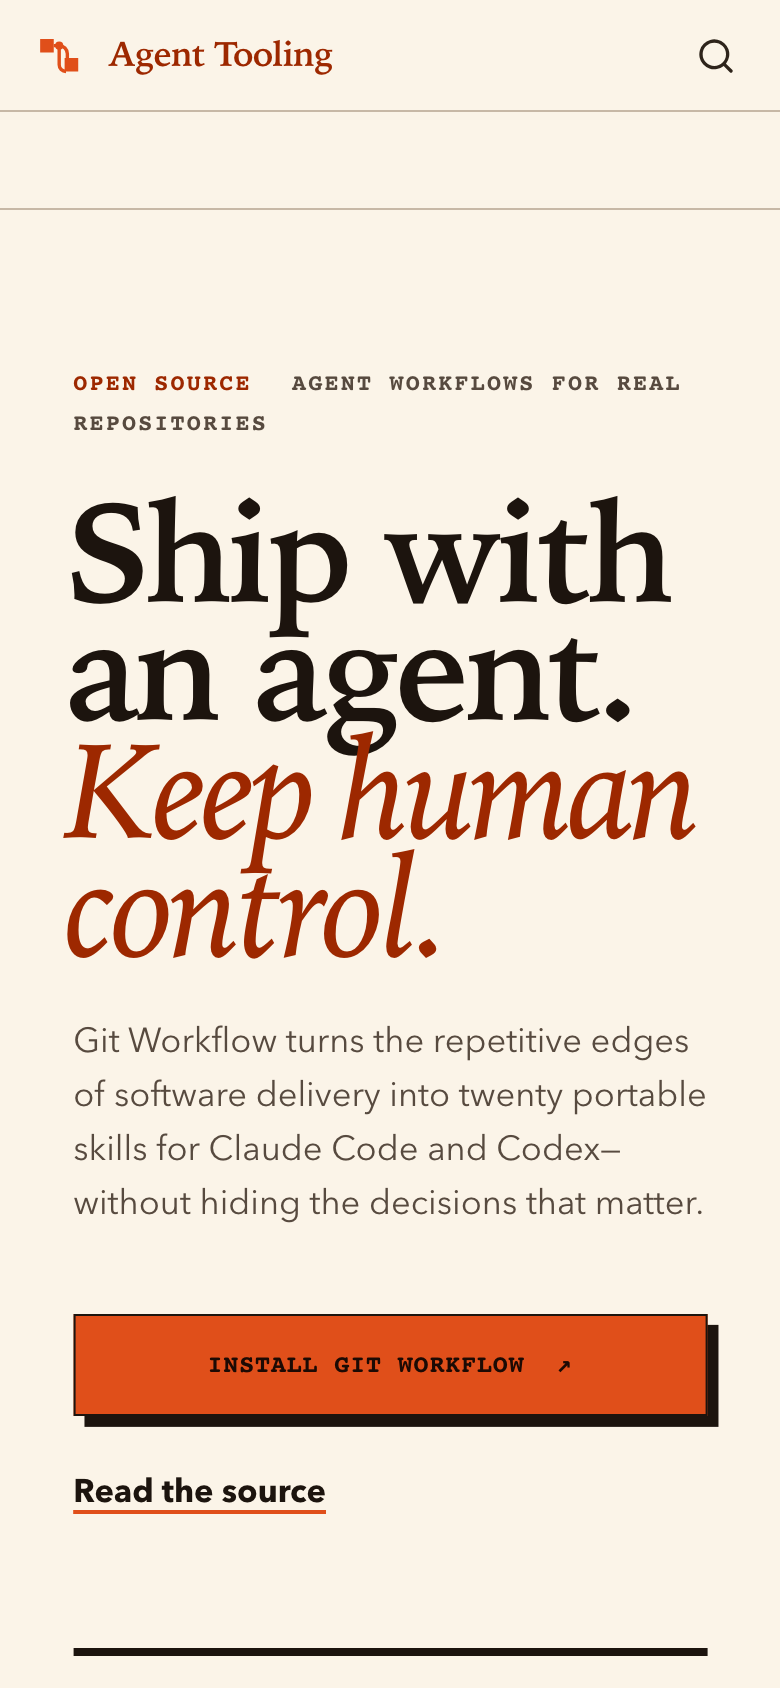
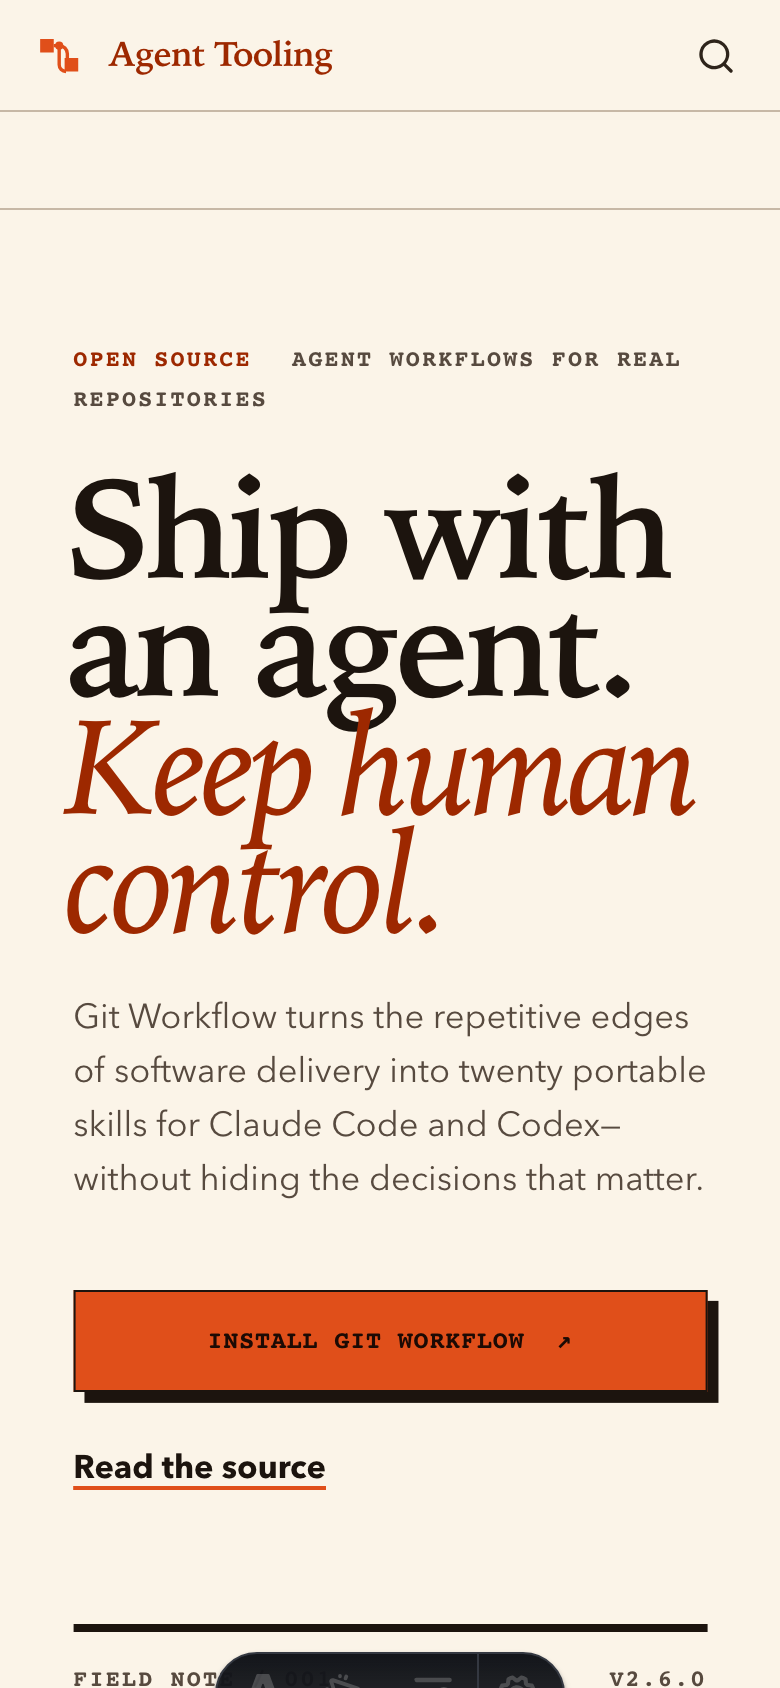
feat: refine Agent Tooling navigation and motion

diff --git a/site/src/styles/custom.css b/site/src/styles/custom.css
@@ -12,6 +12,7 @@
   --at-code: oklch(24% 0.025 60);
   --at-code-text: oklch(94% 0.018 82);
   --at-selection: oklch(86% 0.105 48);
+  --at-ease-out: cubic-bezier(0.22, 1, 0.36, 1);
   --sl-font: var(--at-font-body);
   --sl-font-mono: var(--at-font-code);
   --sl-color-accent-low: oklch(91% 0.06 43);
@@ -267,11 +268,10 @@ header.header {
 
 .hub-hero {
   display: grid;
-  min-height: min(44rem, calc(100svh - 4rem));
-  align-items: end;
+  align-items: start;
   gap: clamp(2.5rem, 6vw, 6.5rem);
   border-bottom: 1px solid var(--at-rule);
-  padding: clamp(3.25rem, 7vw, 6.5rem) clamp(0rem, 2vw, 2rem) clamp(2.75rem, 5vw, 4.5rem);
+  padding: clamp(2.5rem, 10vw, 3.5rem) clamp(0rem, 2vw, 2rem) clamp(3.5rem, 10vw, 5rem);
 }
 
 .hero-copy {
@@ -318,12 +318,17 @@ header.header {
   padding: 0.8rem 1.05rem;
   text-decoration: none;
   text-transform: uppercase;
-  transition: box-shadow 180ms cubic-bezier(0.22, 1, 0.36, 1), transform 180ms cubic-bezier(0.22, 1, 0.36, 1);
+  transition: box-shadow 180ms var(--at-ease-out), transform 180ms var(--at-ease-out);
 }
 
 .primary-action:hover {
   transform: translate(0.13rem, 0.13rem);
   box-shadow: 0.21rem 0.21rem 0 var(--at-ink);
+}
+
+.primary-action:active {
+  transform: translate(0.28rem, 0.28rem);
+  box-shadow: 0.06rem 0.06rem 0 var(--at-ink);
 }
 
 .text-action {
@@ -403,6 +408,70 @@ header.header {
   font-family: var(--at-font-code);
   font-size: 9px;
   letter-spacing: 0.08em;
+}
+
+.field-index {
+  display: grid;
+  border-bottom: 1px solid var(--at-rule);
+  background: color-mix(in oklch, var(--at-paper) 96%, transparent);
+  font-family: var(--at-font-code);
+}
+
+.field-index > span {
+  display: none;
+  color: var(--at-ink-soft);
+  font-size: 0.68rem;
+  font-weight: 650;
+  letter-spacing: 0.08em;
+  text-transform: uppercase;
+}
+
+.field-index ol {
+  display: grid;
+  min-width: 0;
+  margin: 0;
+  padding: 0;
+  grid-template-columns: repeat(4, minmax(0, 1fr));
+  list-style: none;
+}
+
+.field-index li + li {
+  border-inline-start: 1px solid var(--at-rule);
+}
+
+.field-index a {
+  display: grid;
+  min-height: 3.4rem;
+  align-content: center;
+  gap: 0.12rem;
+  color: var(--at-ink);
+  padding: 0.55rem clamp(0.45rem, 2vw, 1rem);
+  text-decoration: none;
+  transition: background-color 160ms var(--at-ease-out), color 160ms var(--at-ease-out);
+}
+
+.field-index b {
+  color: var(--at-accent-deep);
+  font-size: 0.64rem;
+  font-weight: 650;
+}
+
+.field-index a span {
+  font-size: clamp(0.66rem, 2.8vw, 0.78rem);
+  font-weight: 650;
+  letter-spacing: 0.035em;
+  text-transform: uppercase;
+}
+
+.field-index a:active {
+  background: var(--at-selection);
+}
+
+#install,
+#workflow,
+#evidence,
+#capabilities {
+  scroll-margin-top: 8rem;
 }
 
 .install-ledger,
@@ -708,7 +777,7 @@ header.header {
   min-height: 0;
   object-fit: cover;
   object-position: top;
-  transition: transform 280ms cubic-bezier(0.22, 1, 0.36, 1);
+  transition: transform 280ms var(--at-ease-out);
 }
 
 .brief-proof > span {
@@ -727,6 +796,10 @@ header.header {
 }
 
 @media (hover: hover) {
+  .field-index a:hover {
+    background: color-mix(in oklch, var(--at-accent) 10%, var(--at-paper));
+  }
+
   .brief-proof:hover .brief-frame img {
     transform: scale(1.018);
   }
@@ -778,7 +851,26 @@ header.header {
 
 @media (min-width: 50rem) {
   .hub-hero {
+    min-height: min(44rem, calc(100svh - 4rem));
+    align-items: end;
+    padding: clamp(3.25rem, 7vw, 6.5rem) clamp(0rem, 2vw, 2rem) clamp(2.75rem, 5vw, 4.5rem);
     grid-template-columns: minmax(0, 1.7fr) minmax(19rem, 0.7fr);
+  }
+
+  .field-index {
+    position: sticky;
+    z-index: 2;
+    top: var(--sl-nav-height, 4rem);
+    align-items: stretch;
+    backdrop-filter: blur(14px);
+    grid-template-columns: minmax(9rem, 0.42fr) minmax(0, 1.58fr);
+  }
+
+  .field-index > span {
+    display: flex;
+    align-items: center;
+    border-inline-end: 1px solid var(--at-rule);
+    padding-inline: 1rem;
   }
 
   .host-commands {
@@ -907,6 +999,32 @@ header.header {
 
   .branch-mark {
     max-height: 5.4rem;
+  }
+}
+
+@media (prefers-reduced-motion: no-preference) {
+  .hero-copy > *,
+  .field-note {
+    opacity: 0;
+    animation: field-reveal 650ms var(--at-ease-out) both;
+  }
+
+  .hero-copy > :nth-child(1) { animation-delay: 40ms; }
+  .hero-copy > :nth-child(2) { animation-delay: 100ms; }
+  .hero-copy > :nth-child(3) { animation-delay: 160ms; }
+  .hero-copy > :nth-child(4) { animation-delay: 220ms; }
+  .field-note { animation-delay: 260ms; }
+}
+
+@keyframes field-reveal {
+  from {
+    opacity: 0;
+    transform: translateY(0.8rem);
+  }
+
+  to {
+    opacity: 1;
+    transform: translateY(0);
   }
 }
 

diff --git a/site/tests/site.spec.ts b/site/tests/site.spec.ts
@@ -20,6 +20,10 @@ test('landing page presents both hosts and real evidence', async ({ page }) => {
   await expect(page.getByRole('heading', { level: 1, name: /Ship with an agent/ })).toBeVisible();
   await expect(page.getByRole('heading', { name: 'Claude Code' })).toBeVisible();
   await expect(page.getByRole('heading', { name: 'Codex' })).toBeVisible();
+  const fieldIndex = page.getByRole('navigation', { name: 'Landing page sections' });
+  await expect(fieldIndex.getByRole('link')).toHaveCount(4);
+  await expect(fieldIndex.getByRole('link', { name: /01\s*Install/i })).toHaveAttribute('href', '#install');
+  await expect(fieldIndex.getByRole('link', { name: /03\s*Evidence/i })).toHaveAttribute('href', '#evidence');
   const notificationImages = page.locator('.notification-proof img');
   await expect(notificationImages).toHaveCount(3);
   await notificationImages.last().scrollIntoViewIfNeeded();
